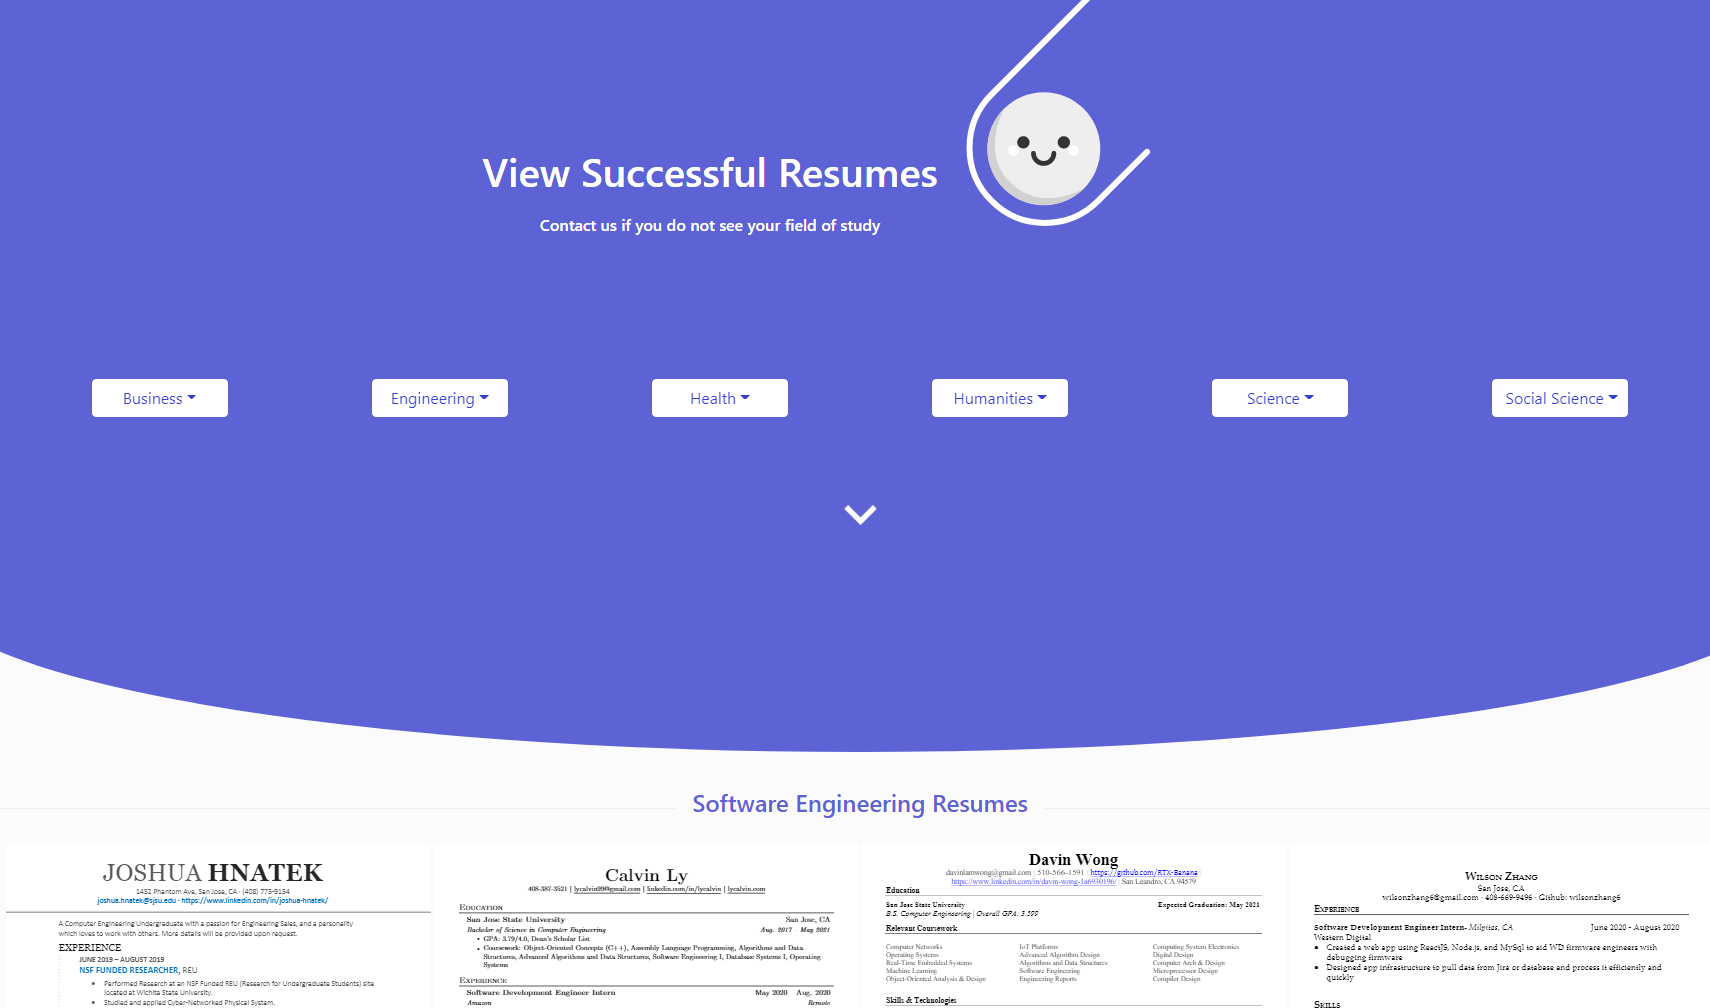
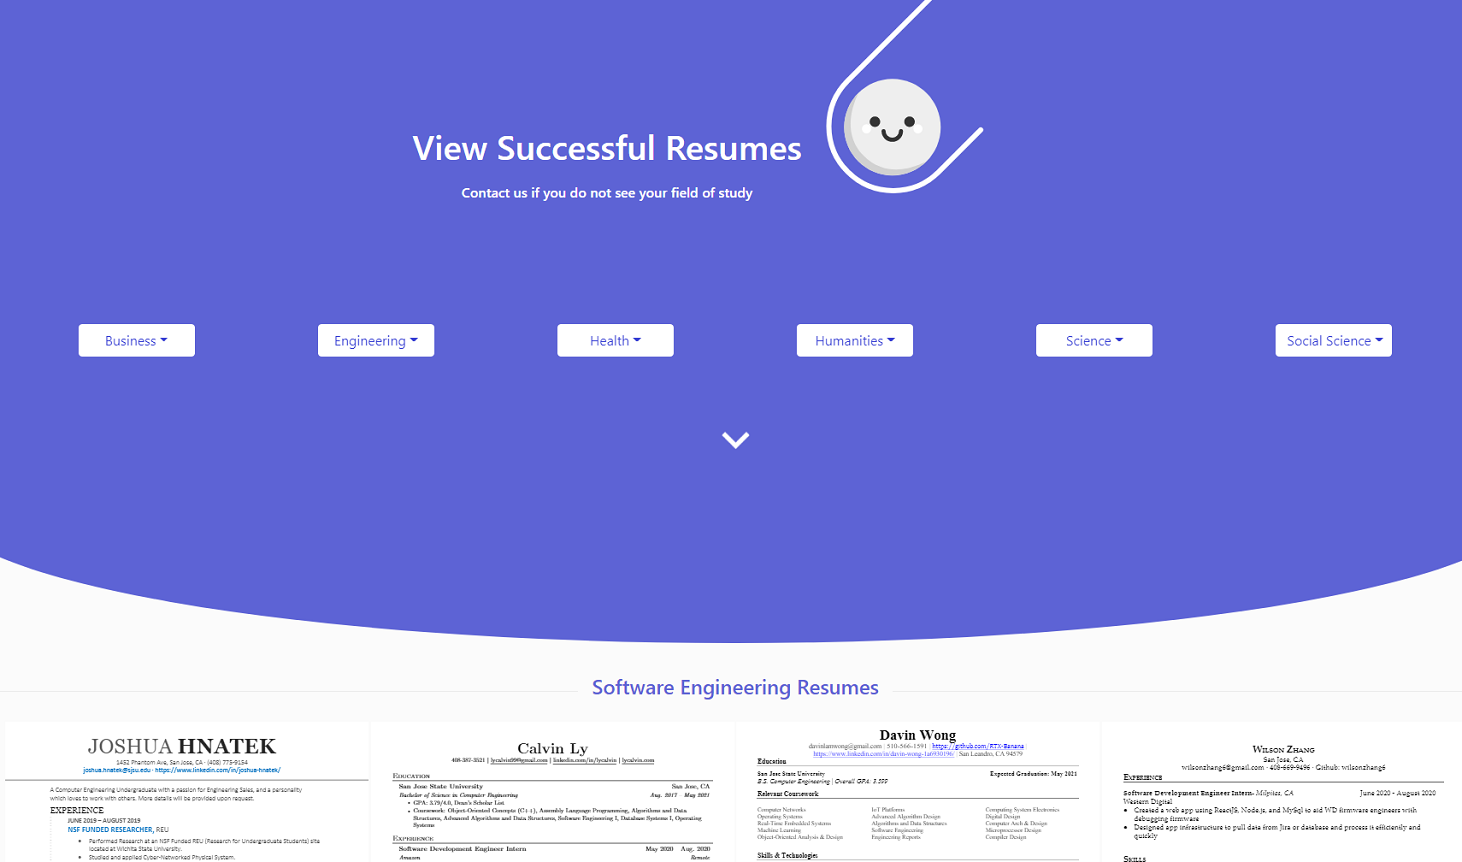
Landing page fixes and register bug fix

diff --git a/frontendium/src/pages/landing/Landing.js b/frontendium/src/pages/landing/Landing.js
@@ -107,32 +107,31 @@ function Landing() {
                     </Row>
                 </a>
             </div>
-            <Row className="landing-page-descriptions" id="landing-find-page">
-                <Col md={12} lg={6}>
+            <Row className="landing-page-descriptions" id="landing-track-page">
+                <Col md={12} lg={5}>
                     <div className="lottie-icon-left">
                         <Lottie
-                            options={Find}
+                            options={Track}
                             height={150}
                             width={150}
                         />
                     </div>
-                    <h3>Find Your Dream Job</h3>
+                    <h3>Track Your Job Applications</h3>
                     <ul>
-                        <li>Filter out the job listings to find the job of your choice</li>
-                        <li>Read through the job description and requirements</li>
-                        <li>See if it is a fit for you</li>
-                        <li>Hit apply to be redirected to the company's website to apply for this position</li>
+                        <li>Add the jobs you applied to onto your profile</li>
+                        <li>Keep track of the status of the jobs you applied to</li>
+                        <li>View your progress via statistical graphs</li>
                     </ul>
                 </Col>
-                <Col md={12} lg={6}>
-                    <Image src={JobSearch} fluid />
+                <Col md={12} lg={7}>
+                    <Image src={Dashboard} fluid />
                 </Col>
             </Row>
             <Row className="landing-page-descriptions" id="landing-build-page">
-                <Col className="image-left" md={12} lg={6}>
+                <Col className="image-left" md={12} lg={7}>
                     <Image src={Resumes} fluid />
                 </Col>
-                <Col md={12} lg={6}>
+                <Col md={12} lg={5}>
                     <div className="lottie-icon-right">
                         <Lottie
                             options={Build}
@@ -147,24 +146,28 @@ function Landing() {
                         <li>Share your resume to help others who are and will be in your current position</li>
                     </ul>
                 </Col>
+                <Col className="image-right" md={12} lg={7}>
+                    <Image src={Resumes} fluid />
+                </Col>
             </Row>
-            <Row className="landing-page-descriptions" id="landing-track-page">
-                <Col md={12} lg={6}>
+            <Row className="landing-page-descriptions" id="landing-find-page">
+                <Col md={12} lg={5}>
                     <div className="lottie-icon-left">
                         <Lottie
-                            options={Track}
+                            options={Find}
                             height={150}
                             width={150}
                         />
                     </div>
-                    <h3>Track Your Job Applications</h3>
+                    <h3>Find Your Dream Job</h3>
                     <ul>
-                        <li>Add the jobs you applied to onto your profile</li>
-                        <li>Keep track of the status of the jobs you applied to</li>
+                        <li>Filter out the job listings to find the job of your choice</li>
+                        <li>Read through the job description and requirements</li>
+                        <li>Hit apply to be redirected to the company's website to apply for this position</li>
                     </ul>
                 </Col>
-                <Col md={12} lg={6}>
-                    <Image src={Dashboard} fluid />
+                <Col md={12} lg={7}>
+                    <Image src={JobSearch} fluid />
                 </Col>
             </Row>
         </div>

diff --git a/backendium/routes/userRoute.js b/backendium/routes/userRoute.js
@@ -61,10 +61,12 @@ app.post("/api/register", (req, res) => {
                     email,
                     password: hashedPassword,
                     name,
-                    major
+                    major,
+                    visible: false
                 });
                 newUser.save((err, data) => {
                     if (err) {
+                        console.log(err);
                         let error = Object.keys(err.keyValue)[0];
                         if (error == 'username') {
                             return res.json({ success: false, error: 'user' });
@@ -74,6 +76,7 @@ app.post("/api/register", (req, res) => {
                         }
                     }
                     else {
+                        console.log(data);
                         jwt.sign({ email: email }, "secretkey", (err, token) => {
                             res.json({
                                 success: true,

diff --git a/frontendium/src/pages/landing/Landing.css b/frontendium/src/pages/landing/Landing.css
@@ -89,10 +89,13 @@
 }
 
 .landing-page-descriptions {
+  display: flex;
+  align-items: center;
   background-color: rgb(251, 251, 251);
   color: #183055;
   height: 70vh;  
-  padding: 10rem 20%;
+  margin: 2% 10% 0% 10%;
+  text-align: left;
 }
 
 .landing-page-descriptions h3 {
@@ -101,6 +104,17 @@
 
 .landing-page-descriptions li {
   font-size: 18px;
+}
+
+.landing-page-descriptions img {
+  box-shadow: 5px 5px 15px rgba(121, 134, 231, 0.4);
+  border-radius: 10px;
+  transition: transform 300ms, box-shadow 300ms;
+}
+
+.landing-page-descriptions img:hover {
+  box-shadow: 10px 8px 20px rgba(121, 134, 231, 0.45);
+  border-radius: 10px;
 }
 
 .image-left {
@@ -139,7 +153,11 @@
 }
 
 /* MOBILE DEVICES */
-@media only screen and (max-width: 500px) {
+@media only screen and (max-width: 700px) {
+  .landing-page-descriptions {
+    margin: 0% 1% 0% 1%;
+  }
+  
   .landing-content-h1 {
     font-size: 40px;
   }

diff --git a/frontendium/src/pages/resumes/ResumeNav.js b/frontendium/src/pages/resumes/ResumeNav.js
@@ -11,7 +11,7 @@ export default function ResumeNav(props) {
             );
         });
         return (
-            <Col className="job-buttons" key={itr} sm={4} md={4} lg={2}>
+            <Col className="job-buttons" key={itr} xs={6} sm={4} md={4} lg={2}>
                 <DropdownButton className="job-button" title={jobItem[0]}>
                     {dropdownItems}
                 </DropdownButton>

diff --git a/frontendium/src/components/resume/ResumeModal.js b/frontendium/src/components/resume/ResumeModal.js
@@ -42,7 +42,7 @@ function ResumeModal(props) {
     return (
         <div className="ResumeModal">
             <Modal
-                title={resume.uploadDate}
+                title={resume.major}
                 width={1200}
                 style={{ top: 20 }}
                 visible={props.showModal}

diff --git a/frontendium/src/components/dashboard/MyProgressCharts.css b/frontendium/src/components/dashboard/MyProgressCharts.css
@@ -1,3 +1,3 @@
 .progress-charts {
-    margin-bottom: 60px;
+    margin: 0px 15px 60px 15px;
 }
